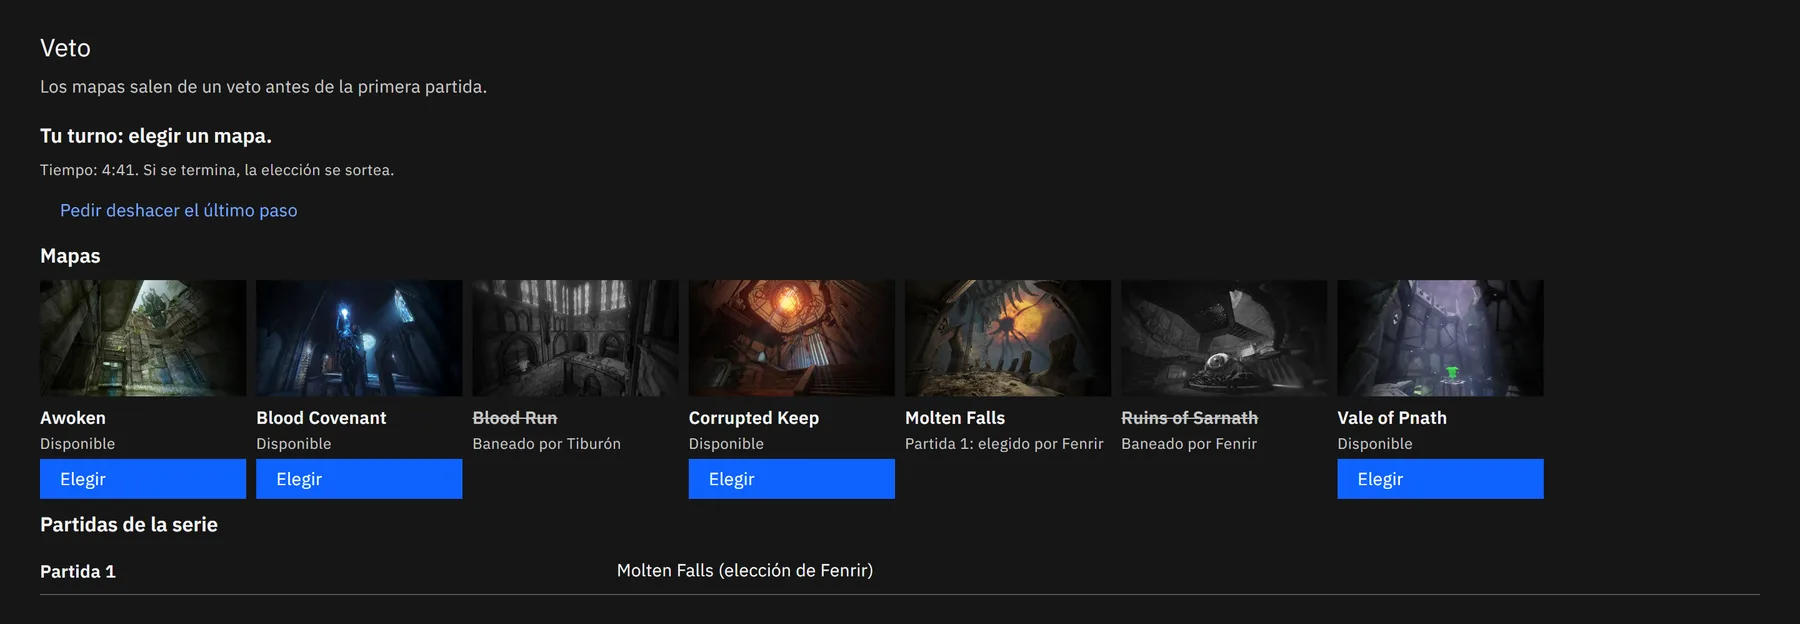
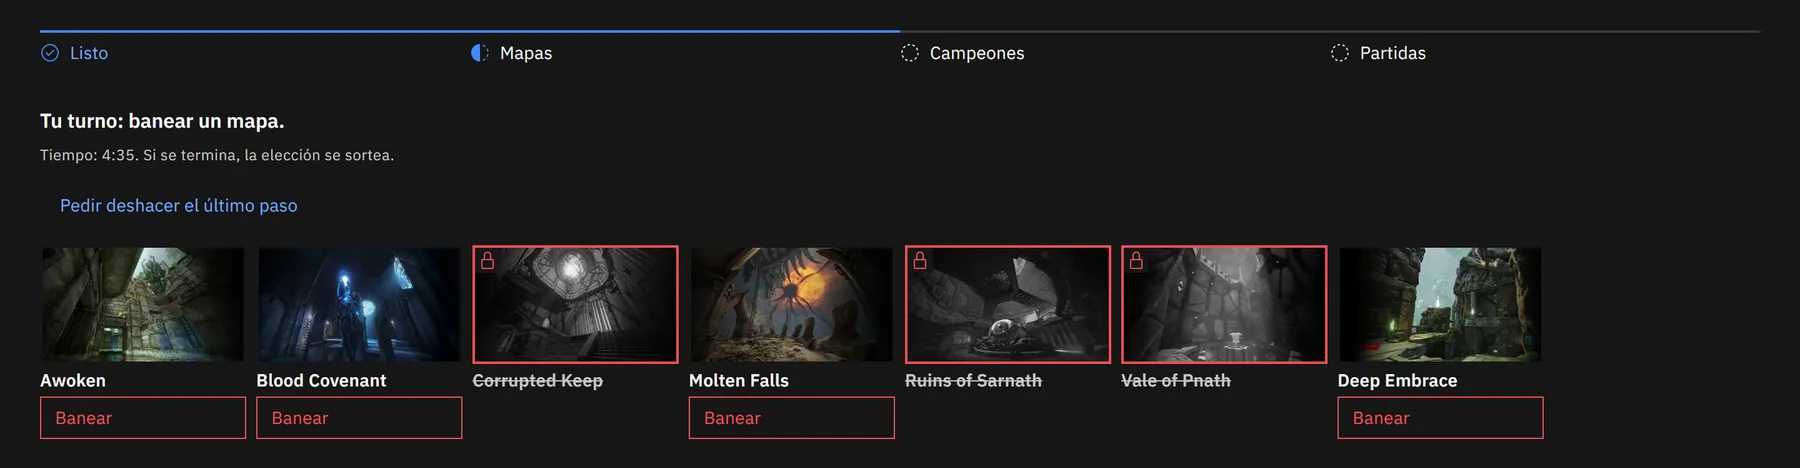
landing: veto screenshots show the new match page
The "Veto e draft" tab of the presentation page showed the old veto
section. The four captures (pt and es, light and dark) now show the series
steps and the map veto in progress: three maps banned in grey with the red
border and the lock, the others with "Banir", seen by the player whose turn
it is. Taken with the user's scripts (landing-showcase.ts and
landing-shots.mjs, copies run against a worktree API, front and database),
with the veto crop pointed at the steps area, since the page no longer has
a "Veto" heading. The new crop is shorter (1800x468 instead of 1800x624),
so ProductShot reserves that size.

Changed region(s): [[0.0, 0.3889, 0.8711, 0.9573], [0.0, 0.0598, 0.9644, 0.1496], [0.0, 0.2094, 0.2178, 0.359]]

diff --git a/web/src/features/landing/components/product-shot.tsx b/web/src/features/landing/components/product-shot.tsx
@@ -11,7 +11,7 @@ import styles from "./product-shot.module.scss";
  */
 const SHOTS = {
   bracket: { width: 1800, height: 1051 },
-  veto: { width: 1800, height: 624 },
+  veto: { width: 1800, height: 468 },
   result: { width: 1800, height: 1017 },
   ranking: { width: 1800, height: 943 },
 };
